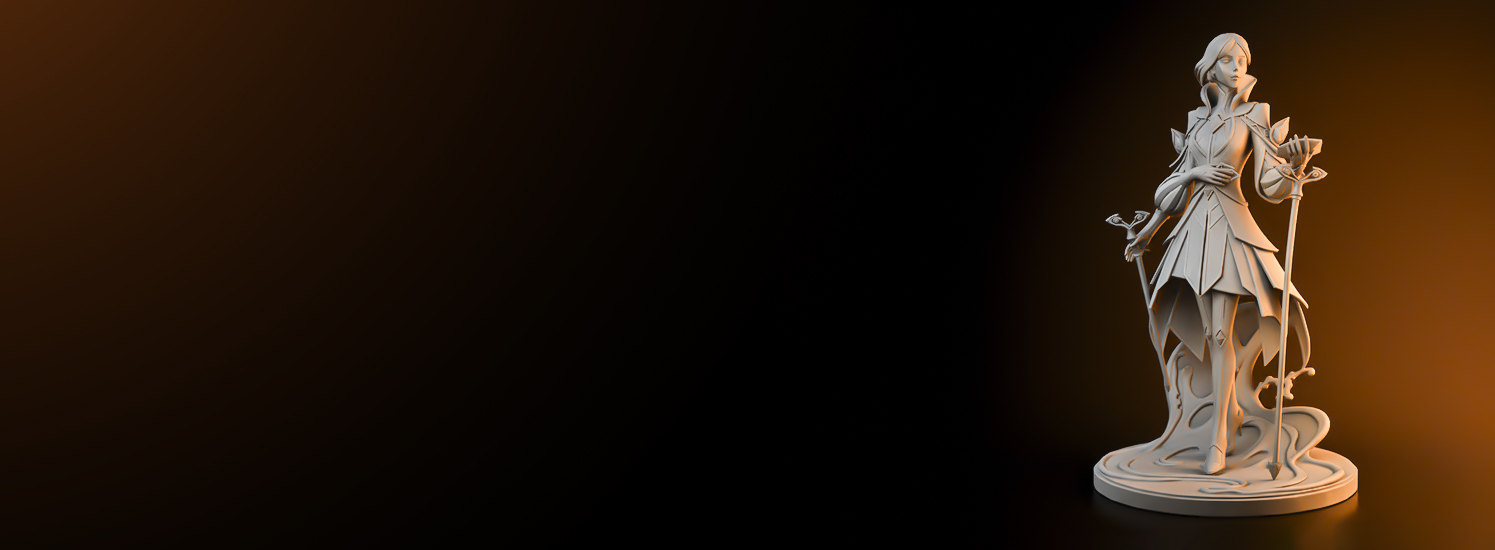
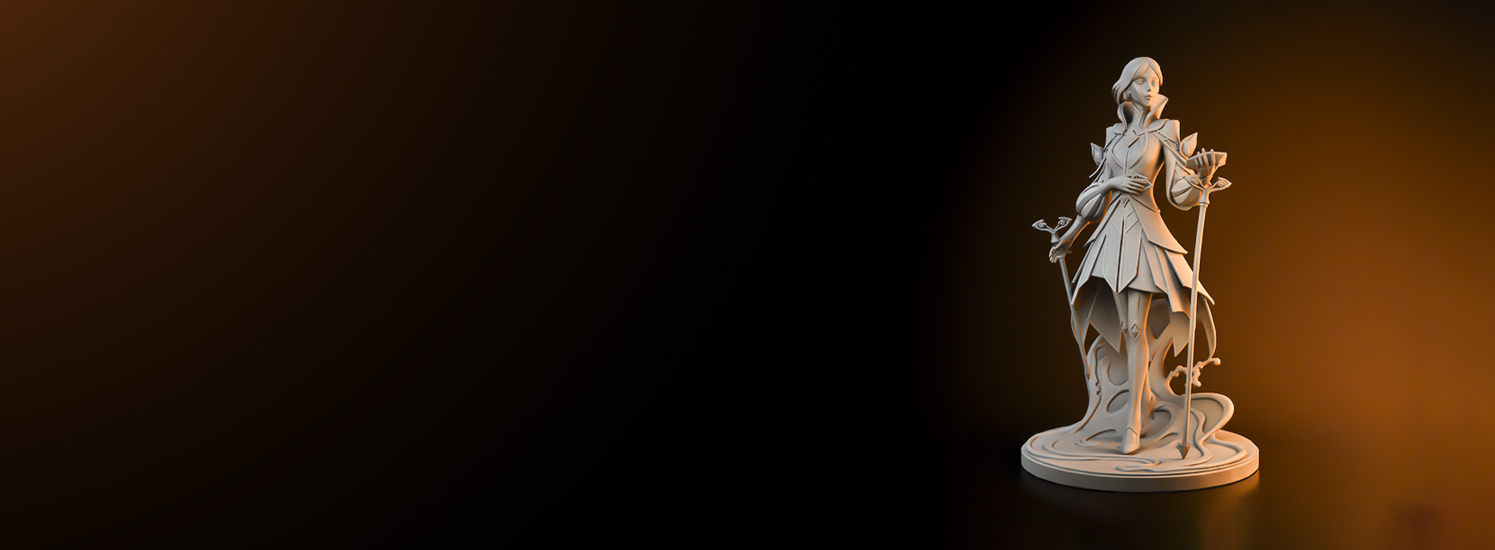
changes_with_images

Changed region(s): [[0.6769, 0.0618, 0.9538, 1.0]]

diff --git a/src/pages/PortfolioPage.jsx b/src/pages/PortfolioPage.jsx
@@ -104,11 +104,13 @@ const PortfolioPage = () => {
         { id: 4, size: "tall", img: "../../Portfolio/normal_card/4.jpg", title: "Character Model" },
         { id: 5, size: "tall", img: "../../Portfolio/normal_card/5.jpg", title: "Environment Art" },
         { id: 6, size: "tall", img: "../../Portfolio/tall_card/1.jpg", title: "Valley Landscape" },
+        { id: 10,  img: "../../Portfolio/wide_card/1.jpg", title: "Forest Light" },
+        { id: 11,  img: "../../Portfolio/large_card/1.jpg", title: "Forest Light" },
+        { id: 12,  img: "../../Portfolio/wide_card/2.jpg", title: "Forest Light" },
         { id: 7, size: "bottom-row", img: "../../Portfolio/bottom_row_card/1.jpg", title: "Desert Panorama" },
         { id: 8, size: "bottom-row", img: "../../Portfolio/bottom_row_card/2.jpg", title: "Aurora Sky" },
         { id: 9, size: "bottom-row", img: "../../Portfolio/bottom_row_card/3.jpg", title: "Misty Mountains" },
-        { id: 10,  img: "../../Portfolio/wide_card/1.jpg", title: "Forest Light" },
-        { id: 11,  img: "../../Portfolio/large_card/1.jpg", title: "Forest Light" }
+     
     ];
 
     const getSizeClass = (size) => {